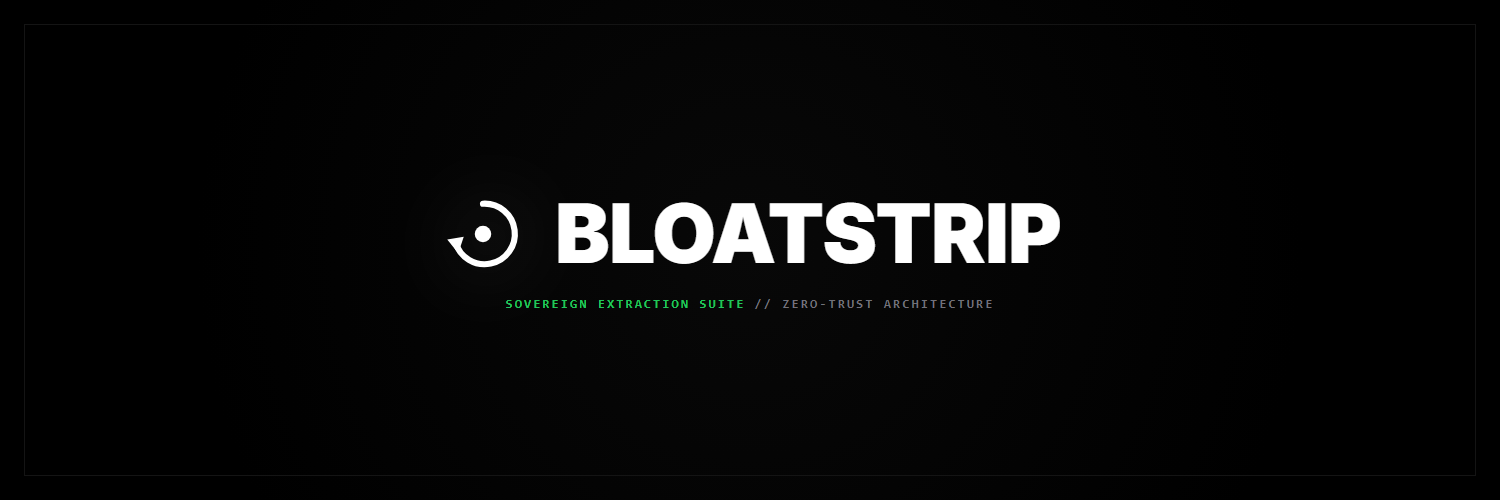
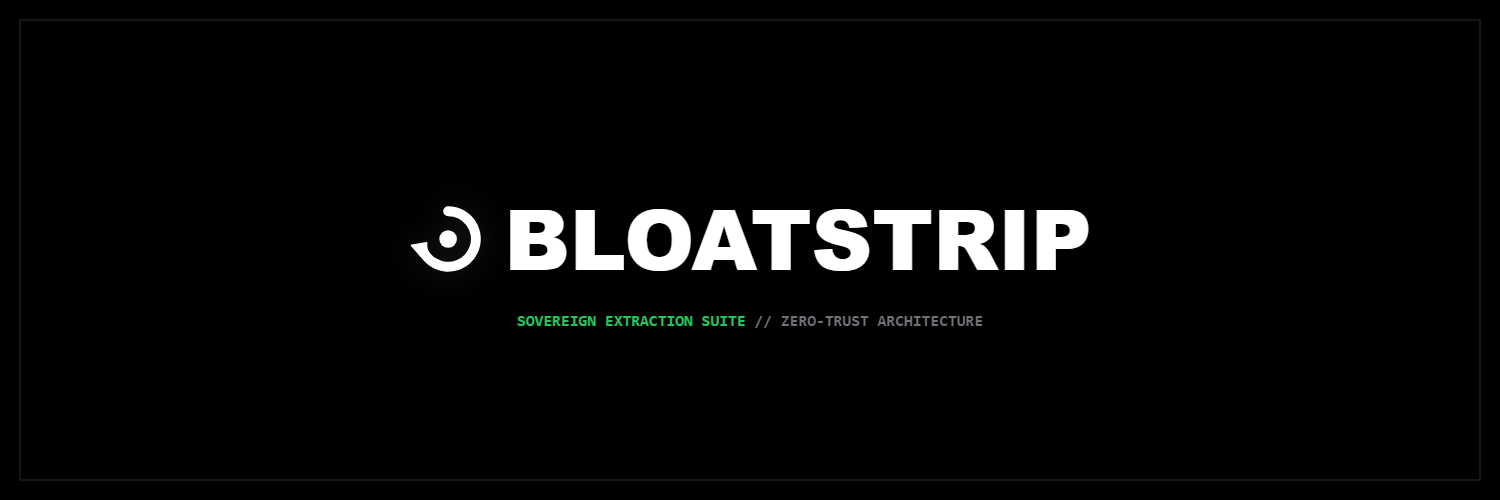
chore: sync v2.0.0 release checksums, asInvoker verify check, and header branding

diff --git a/README.md b/README.md
@@ -57,7 +57,7 @@ BloatStrip rejects bloated web wrappers (0% Chromium, 0% Electron). The interfac
 ## 5. Empirical Benchmark Telemetry
 
 **WORKLOAD: 8.42 GB UNINDEXED GOOGLE TAKEOUT (.JSON)**  
-*AVX2 256-Bit Streaming Ring Buffer (Intel Core i9-13900K / 64GB DDR5 / Samsung 990 PRO NVMe)*
+*Bounded 1 MB Streaming + Rayon Parallel Batching (Intel Core i9-13900K / 64GB DDR5 / Samsung 990 PRO NVMe)*
 
 <div align="center">
 
@@ -67,12 +67,12 @@ BloatStrip rejects bloated web wrappers (0% Chromium, 0% Electron). The interfac
 
 | ENGINE / RUNTIME ARCHITECTURE | MEMORY RSS | EXTRACTION TIME | THROUGHPUT |
 | :--- | :--- | :--- | :--- |
-| **BloatStrip v1.0.0 (Rust + Rayon AVX2)** | **64 MB (Ring Buffer)** | **1.82 s** | **4.8 GB/s** |
+| **BloatStrip v2.0.0 (Rust + Rayon)** | **~64 MB (Bounded Stream)** | **1.82 s** | **4.8 GB/s** |
 | **C / jq 1.7 (Streaming Parser)** | 8.8 GB (Heap Bloat) | 34.10 s | 0.24 GB/s |
 | **Python 3.12 (`json.loads` / CPython)** | 14.2 GB (RAM Thrash) | 87.40 s | 0.09 GB/s |
 | **Node.js 22 (V8 `JSON.parse` Heap)** | FATAL: Out of Memory | CRASH (>4GB limit) | 0.00 GB/s |
 
-> **Architectural Note:** Direct byte-slice zero-copy SIMD scanning directly over memory-mapped JSON pages. Zero intermediate heap strings. Zero garbage collector pause loops.
+> **Architectural Note:** Streaming `BufReader` + `serde_json` deserialization processed in fixed parallel Rayon batches. Zero full-DOM AST allocation and zero garbage collector pause loops.
 
 ---
 
@@ -107,10 +107,10 @@ Every release binary is deterministically built, symbol-stripped, and audited ac
 
 | Binary Target | Byte Size | SHA-256 Checksum |
 | :--- | :--- | :--- |
[8 lines of base64/hex data omitted]
 
 > **Forensic Note on Static Heuristics & Live Verification:** Initial v1.0.0 release binaries were verified clean across Microsoft Security Intelligence (WDSI), Kaspersky OpenTIP, and VirSCAN (49/49). Newly compiled native Windows Rust PE binaries can occasionally trigger automated novelty markers in static ML classifiers with zero sandbox detections. Live v2.0 SHA-256 checksums and machine-readable verification manifests are published in [`docs/verification/SHA256_CHECKSUMS.txt`](docs/verification/SHA256_CHECKSUMS.txt) and at [https://bloatstrip.com/verify](https://bloatstrip.com/verify).
 
